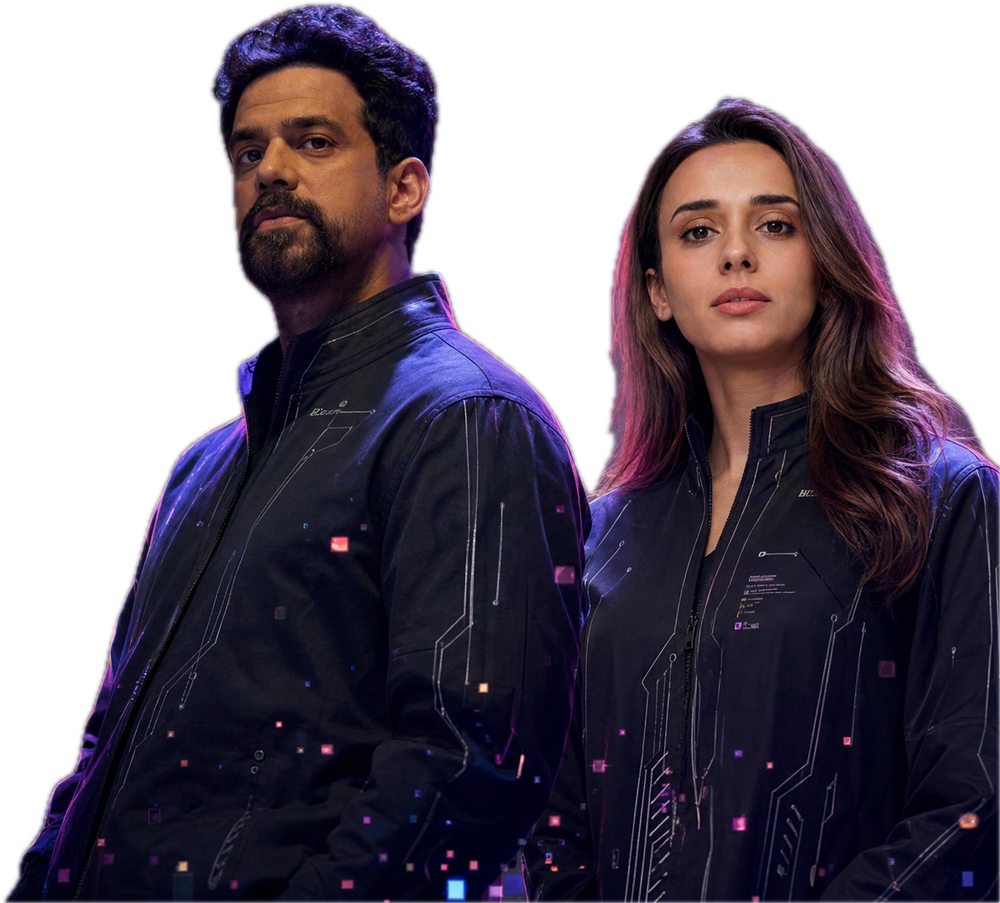
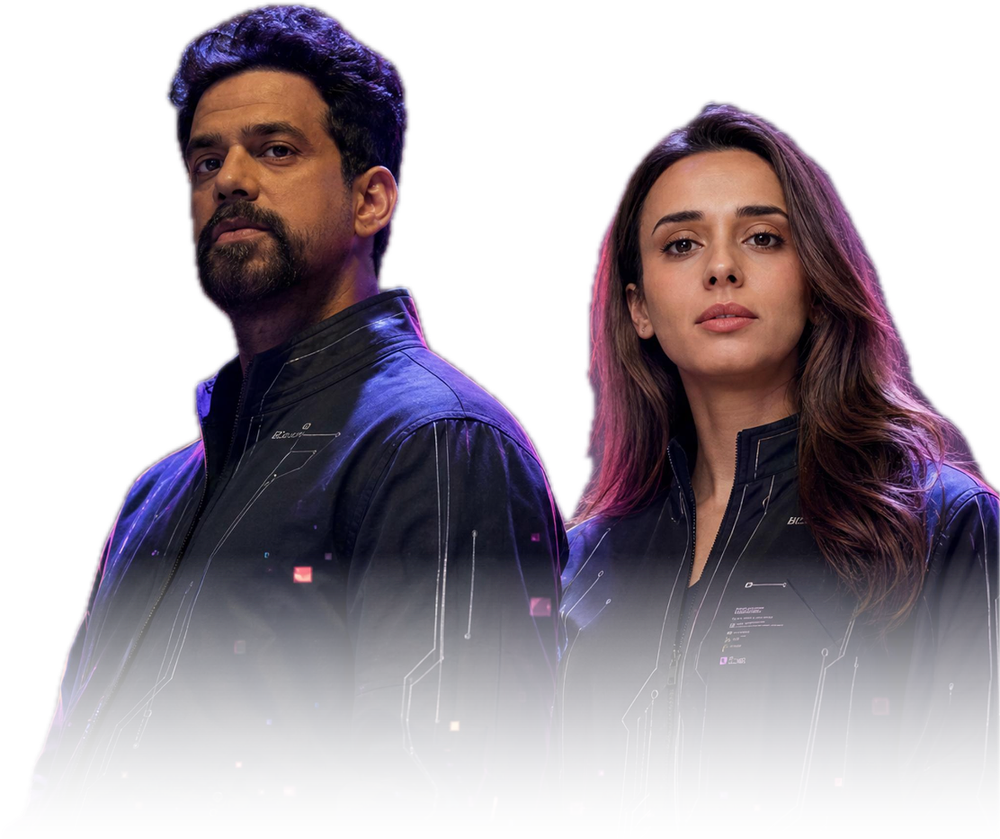
Fix the hard-edged pink glow and the cutout's dark bottom slab
Two artifacts the headless screenshot made obvious:

The hero glow used negative insets, which put the gradient's own edge
off-canvas and rendered as a straight line down the left of the screen,
clipped further by overflow:hidden so it appeared to sit behind the photo.
It now spans the section's own width with the gradient reaching transparent
inside the box, unclipped and screen-blended, so it washes over the photo.

Vision's mask had merged their black jackets with the black wall, leaving the
lower third of the cutout as one near-opaque dark slab. The PNG now carries
an eased alpha ramp through that region, so the bodies genuinely dissolve
instead of ending in a visible block.

diff --git a/index.html b/index.html
@@ -157,21 +157,24 @@
       margin-top: calc(-1 * clamp(90px, 15vw, 190px));
       z-index: 2;
       position: relative;
-      overflow: hidden;
+      overflow: visible;
     }
 
-    /* soft pink/yellow glow behind the hero */
+    /* Pink wash over the hero. Kept inside the section's own width — negative
+       insets put the gradient's edge off-canvas, which rendered as a hard line
+       down the left of the screen. */
     .hero::before {
       content: '';
       position: absolute;
-      inset: -30% -10% auto -10%;
-      height: 80%;
+      inset: -46% 0 auto 0;
+      height: 150%;
       background:
-        radial-gradient(60% 55% at 30% 20%, rgba(255, 43, 155, 0.10), transparent 70%),
-        radial-gradient(50% 50% at 75% 10%, rgba(255, 201, 55, 0.07), transparent 70%);
+        radial-gradient(36% 30% at 27% 40%, rgba(255, 43, 155, 0.16), transparent 72%),
+        radial-gradient(32% 26% at 73% 28%, rgba(150, 90, 255, 0.14), transparent 72%);
       pointer-events: none;
       z-index: 0;
-      filter: blur(20px);
+      filter: blur(44px);
+      mix-blend-mode: screen;
     }
 
     .hero > * { position: relative; z-index: 1; }
@@ -308,8 +311,8 @@
       z-index: 2;
       /* Their bodies are cut by the frame — fade the last stretch so it reads
          as fading out rather than being sliced off. */
-      -webkit-mask-image: linear-gradient(to bottom, #000 46%, rgba(0,0,0,0.72) 68%, rgba(0,0,0,0.28) 85%, transparent 100%);
-      mask-image: linear-gradient(to bottom, #000 46%, rgba(0,0,0,0.72) 68%, rgba(0,0,0,0.28) 85%, transparent 100%);
+      -webkit-mask-image: linear-gradient(to bottom, #000 72%, transparent 100%);
+      mask-image: linear-gradient(to bottom, #000 72%, transparent 100%);
     }
 
     /* Pink glow laid over the cutout. Screen blending makes it read as light
